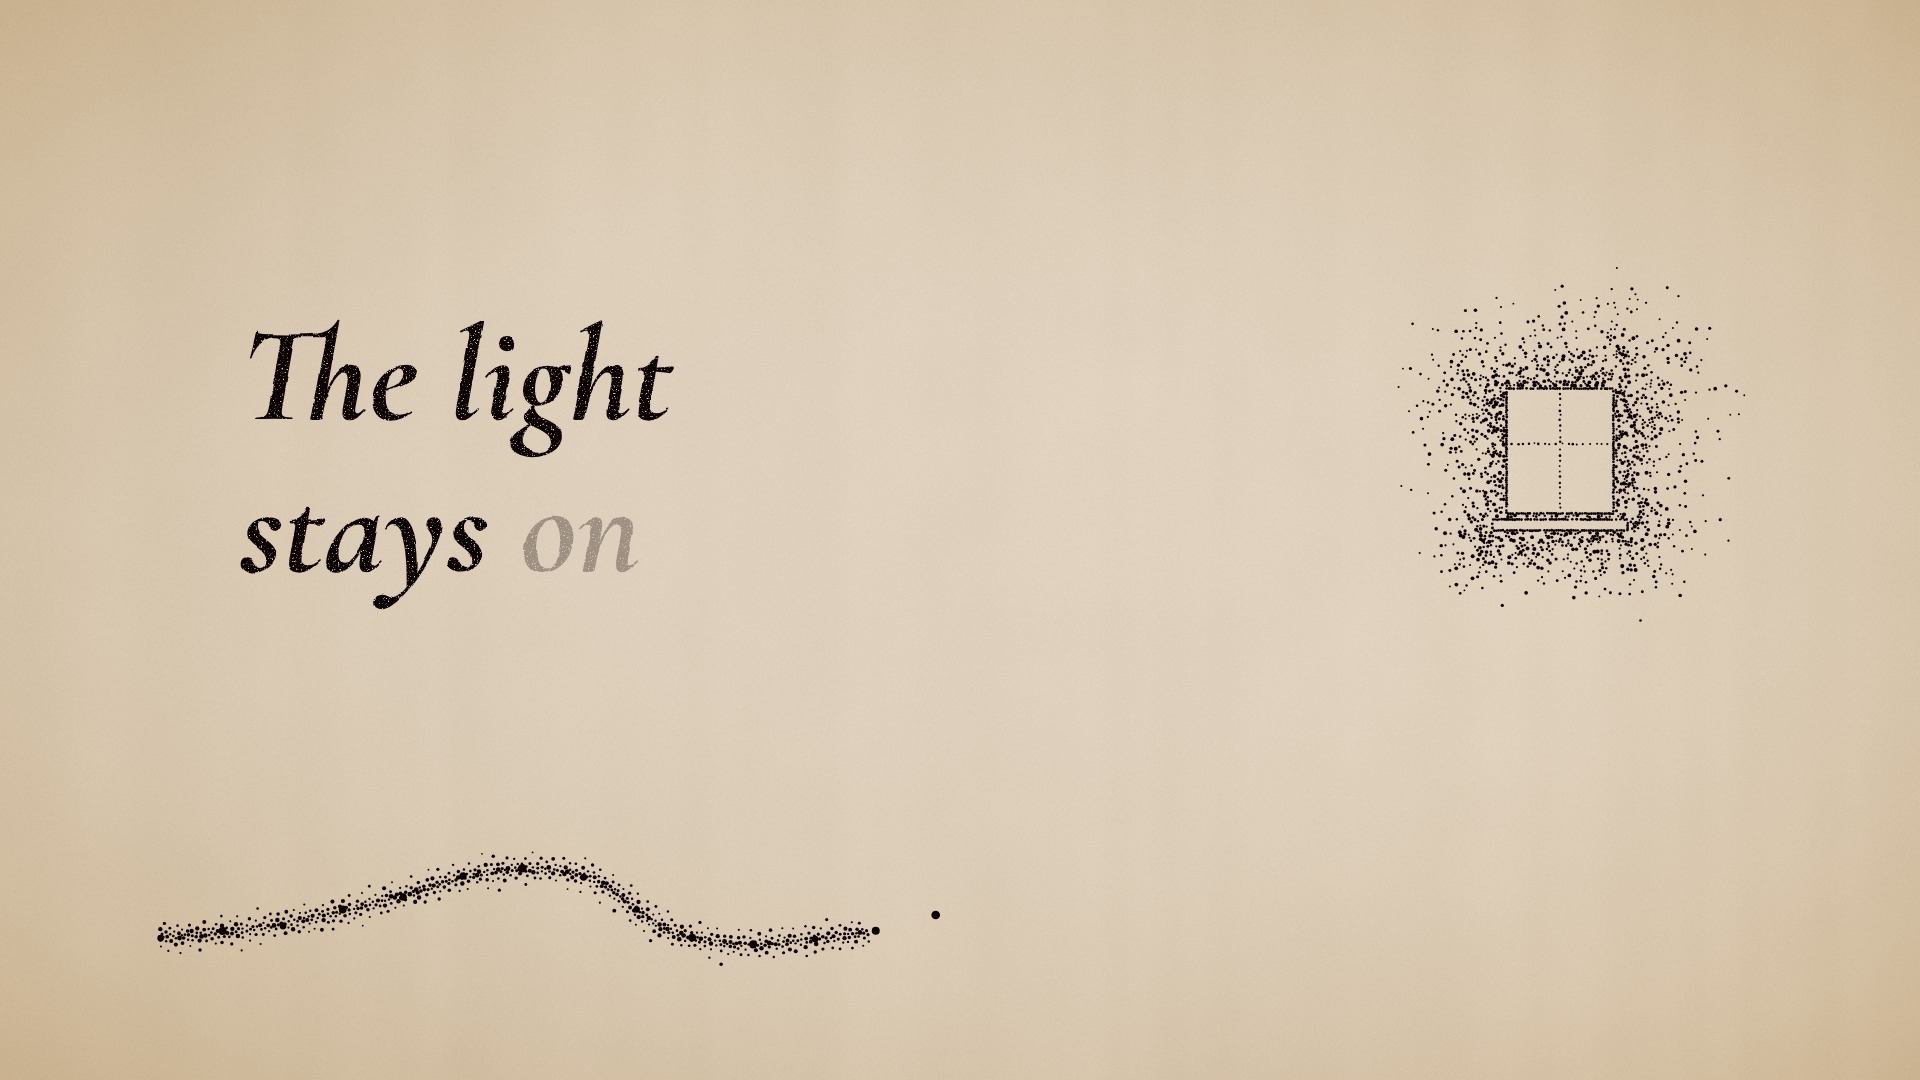
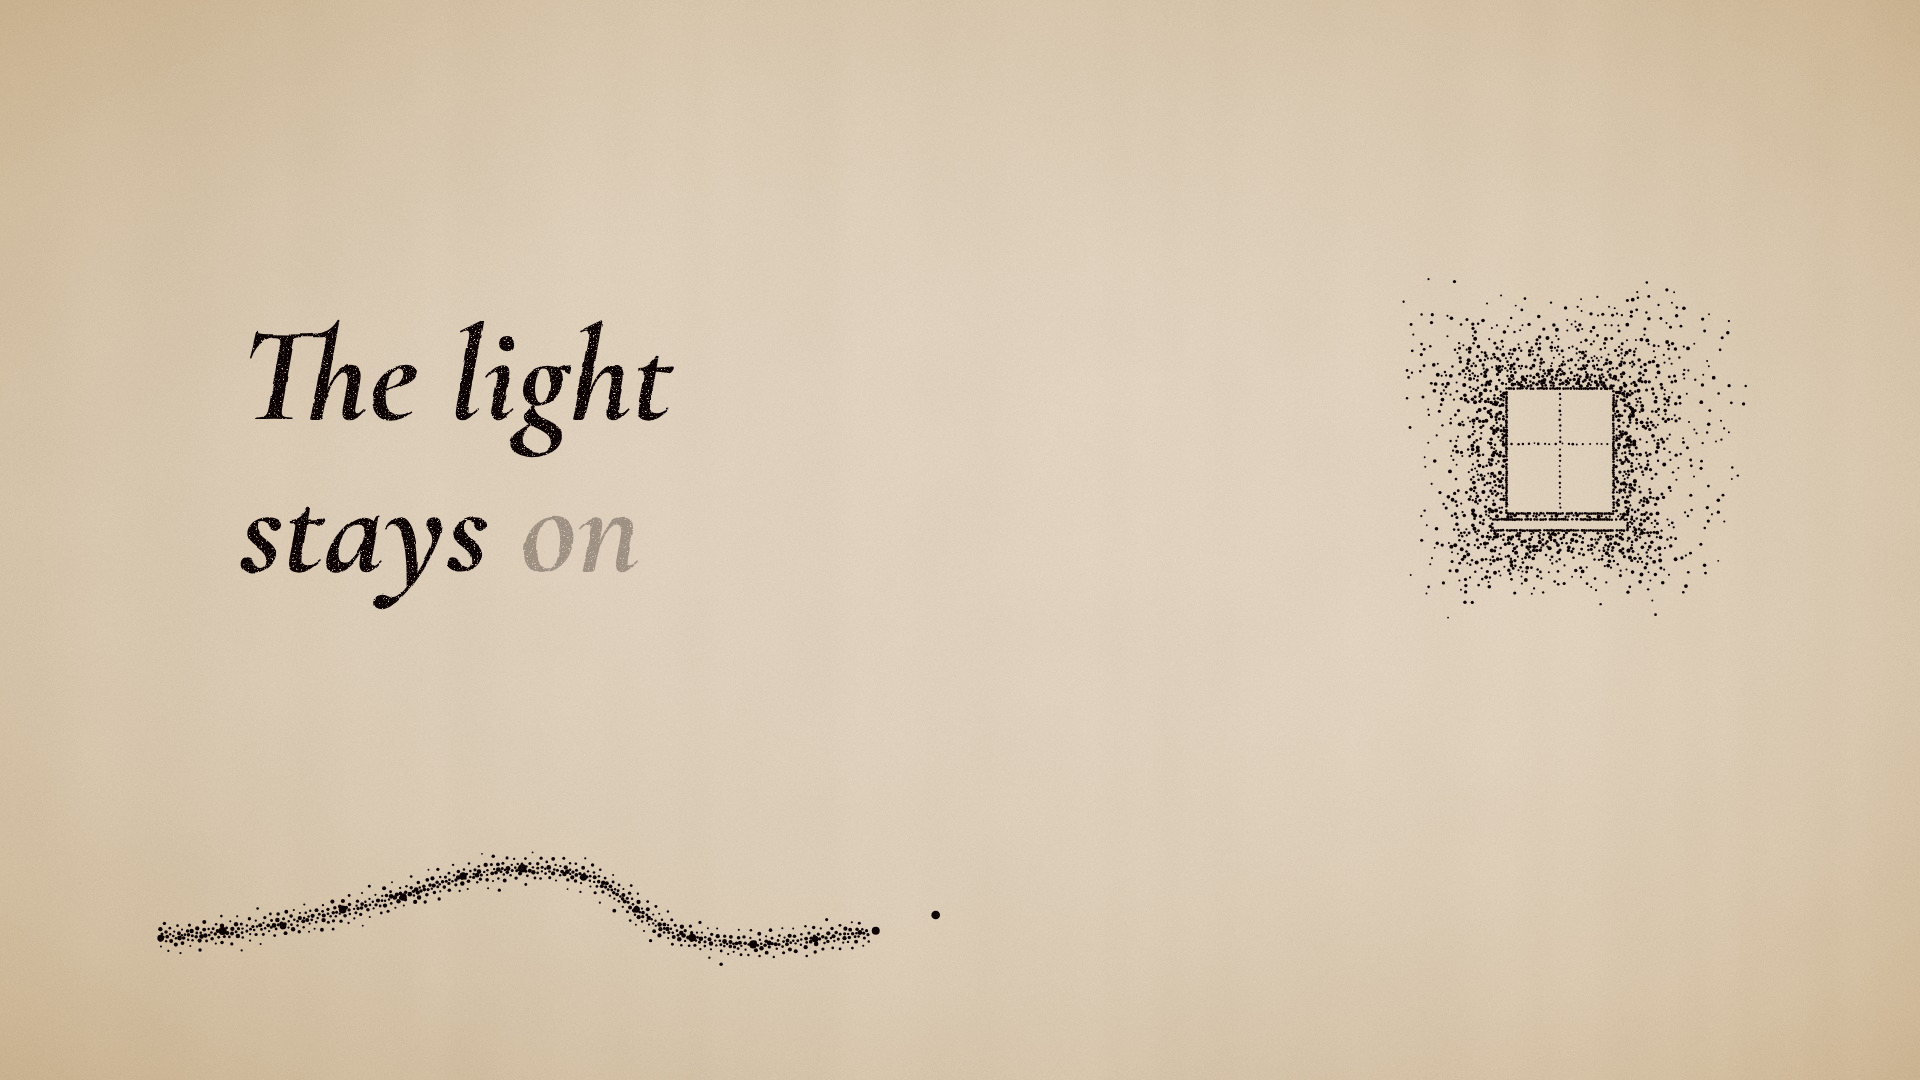
lyric-video run: mood board and style kit work in progress
Claude-Session: https://claude.ai/code/session_012EHT9S5appoyEQdmnDkyR5

Changed region(s): [[0.75, 0.275, 0.9062, 0.55]]

diff --git a/video-pipeline/styles/stipple-lyric/stipple.js b/video-pipeline/styles/stipple-lyric/stipple.js
@@ -196,10 +196,11 @@
        reach        how far the dots scatter from the edge, px (175)
        tight        distance between dots at the edge (2.3); loose: at the reach (17)
        uneven       how far the outline wanders, 0-1 (0.4)
+       square       0 a round cloud, 1 a cloud with the rectangle's own corners (0.6)
        r            [smallest, largest] dot radius ([1.1, 2.2]) */
     halo(g, o) {
       g = el(g);
-      const { x, y, w, h, bare = [], reach = 175, tight = 2.3, loose = 17, uneven = 0.4,
+      const { x, y, w, h, bare = [], reach = 175, tight = 2.3, loose = 17, uneven = 0.4, square = 0.6,
               r = [1.1, 2.2], seed = 1, order } = o;
       const rand = rng(seed), wob = ringNoise(rand, 5), field = Field(4), dots = [];
       const rects = [[x, y, w, h]].concat(bare);
@@ -209,7 +210,8 @@
       const dist = (px, py) => {               // to the nearest bare rectangle
         let best = Infinity;
         for (const [rx, ry, rw, rh] of rects) {
-          best = Math.min(best, Math.hypot(Math.max(rx - px, 0, px - (rx + rw)), Math.max(ry - py, 0, py - (ry + rh))));
+          const dx = Math.max(rx - px, 0, px - (rx + rw)), dy = Math.max(ry - py, 0, py - (ry + rh));
+          best = Math.min(best, (1 - square) * Math.hypot(dx, dy) + square * Math.max(dx, dy));
         }
         return best;
       };
@@ -244,7 +246,7 @@
       // the pockets between the bare rectangles
       for (let i = Math.ceil((W * H) / (tight * tight) * 5); i > 0; i--) drop(X0 + rand() * W, Y0 + rand() * H);
       // then ring by ring outward, so each distance gets as many dots as it can hold
-      const rings = 28, R = reach * (1 + uneven), bw = R / rings;
+      const rings = 28, R = reach * (1 + uneven) * (1 + 0.42 * square), bw = R / rings;
       for (let b = 0; b < rings; b++) {
         const d0 = b * bw, dm = d0 + bw / 2, arc = Math.PI * dm / 2, per = 2 * (W + H) + 4 * arc;
         const gapM = gapAt(Math.min(1, dm / reach));
